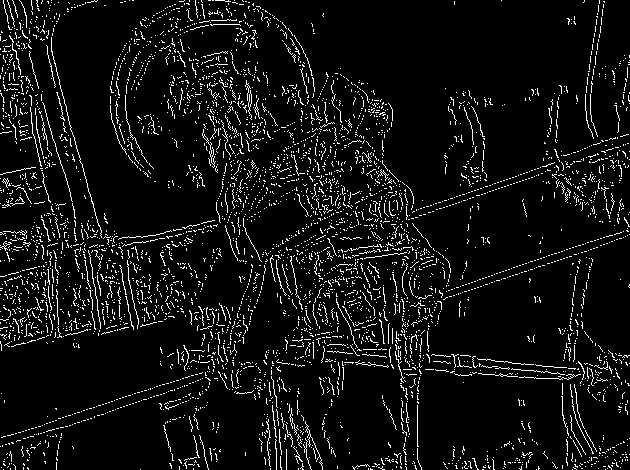
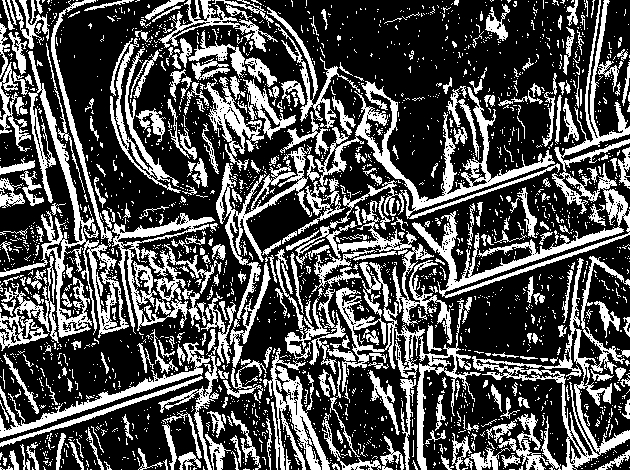
update

diff --git a/src/image/imageFilters/cannyFilter.cc b/src/image/imageFilters/cannyFilter.cc
@@ -1,13 +1,10 @@
 #include <algorithm>
-#include <chrono>
-
-#define _USE_MATH_DEFINES
 #include <cmath>
 
 #include "../image.h"
 
 // We create a function to show the edge of the objects of the image
-void Image::applyCannyFilter(unsigned int limit) {
+void Image::applyCannyFilter(unsigned int highLimit, unsigned int lowLimit) {
 
   // If the image is not a grayscale, we convert it
   if(colorSpace != 1) {
@@ -75,10 +72,10 @@ void Image::applyCannyFilter(unsigned int limit) {
 
       // We define the direction of the gradient
       if(!SXvalue == 0) {
-        gradientDirectionLine.push_back( atan(SYvalue / SXvalue) * 180 / M_PI );
+        gradientDirectionLine.push_back( atan(SYvalue / SXvalue) );
       }
       else {
-        gradientDirectionLine.push_back(90);
+        gradientDirectionLine.push_back(100);
       }
     }
 
@@ -115,22 +112,40 @@ void Image::applyCannyFilter(unsigned int limit) {
       // For a direction of the gradient, we choose a method to find
       // the pixels that are not part of the outlines
 
-      if(gradientDirection[i][j] > -90 && gradientDirection[i][j] <= -67.5) {
-        if(gradient[i][j] > gradient[i - 1][j] && gradient[i][j] > gradient[i + 1][j]) {
-          if(gradient[i][j] > highLimit) {
-            newLine.push_back(255);
-          }
-          else if(gradient[i][j] > lowLimit) {
-            newLine.push_back(120);
-          }
-          else {
-            newLine.push_back(0);
-          }
+      if(-100 <= gradientDirection[i][j] && gradientDirection[i][j] < -50) {
+        if(gradient[i][j] > gradient[i + 1][j]) {
+          newLine.push_back(255);
         }
         else {
           newLine.push_back(0);
         }
       }
+      else if(-50 <= gradientDirection[i][j] && gradientDirection[i][j] < 0) {
+        if(gradient[i][j] > gradient[i + 1][j + 1]) {
+          newLine.push_back(255);
+        }
+        else {
+          newLine.push_back(0);
+        }
+      }
+      else if(0 <= gradientDirection[i][j] && gradientDirection[i][j] < 50) {
+        if(gradient[i][j] > gradient[i - 1][j + 1]) {
+          newLine.push_back(255);
+        }
+        else {
+          newLine.push_back(0);
+        }
+      }
+      else if(50 <= gradientDirection[i][j] && gradientDirection[i][j] <= 100) {
+        if(gradient[i][j] > gradient[i - 1][j]) {
+          newLine.push_back(255);
+        }
+        else {
+          newLine.push_back(0);
+        }
+      }
+
+    }
 
     // We push the new line
     newPixels.push_back(newLine);
